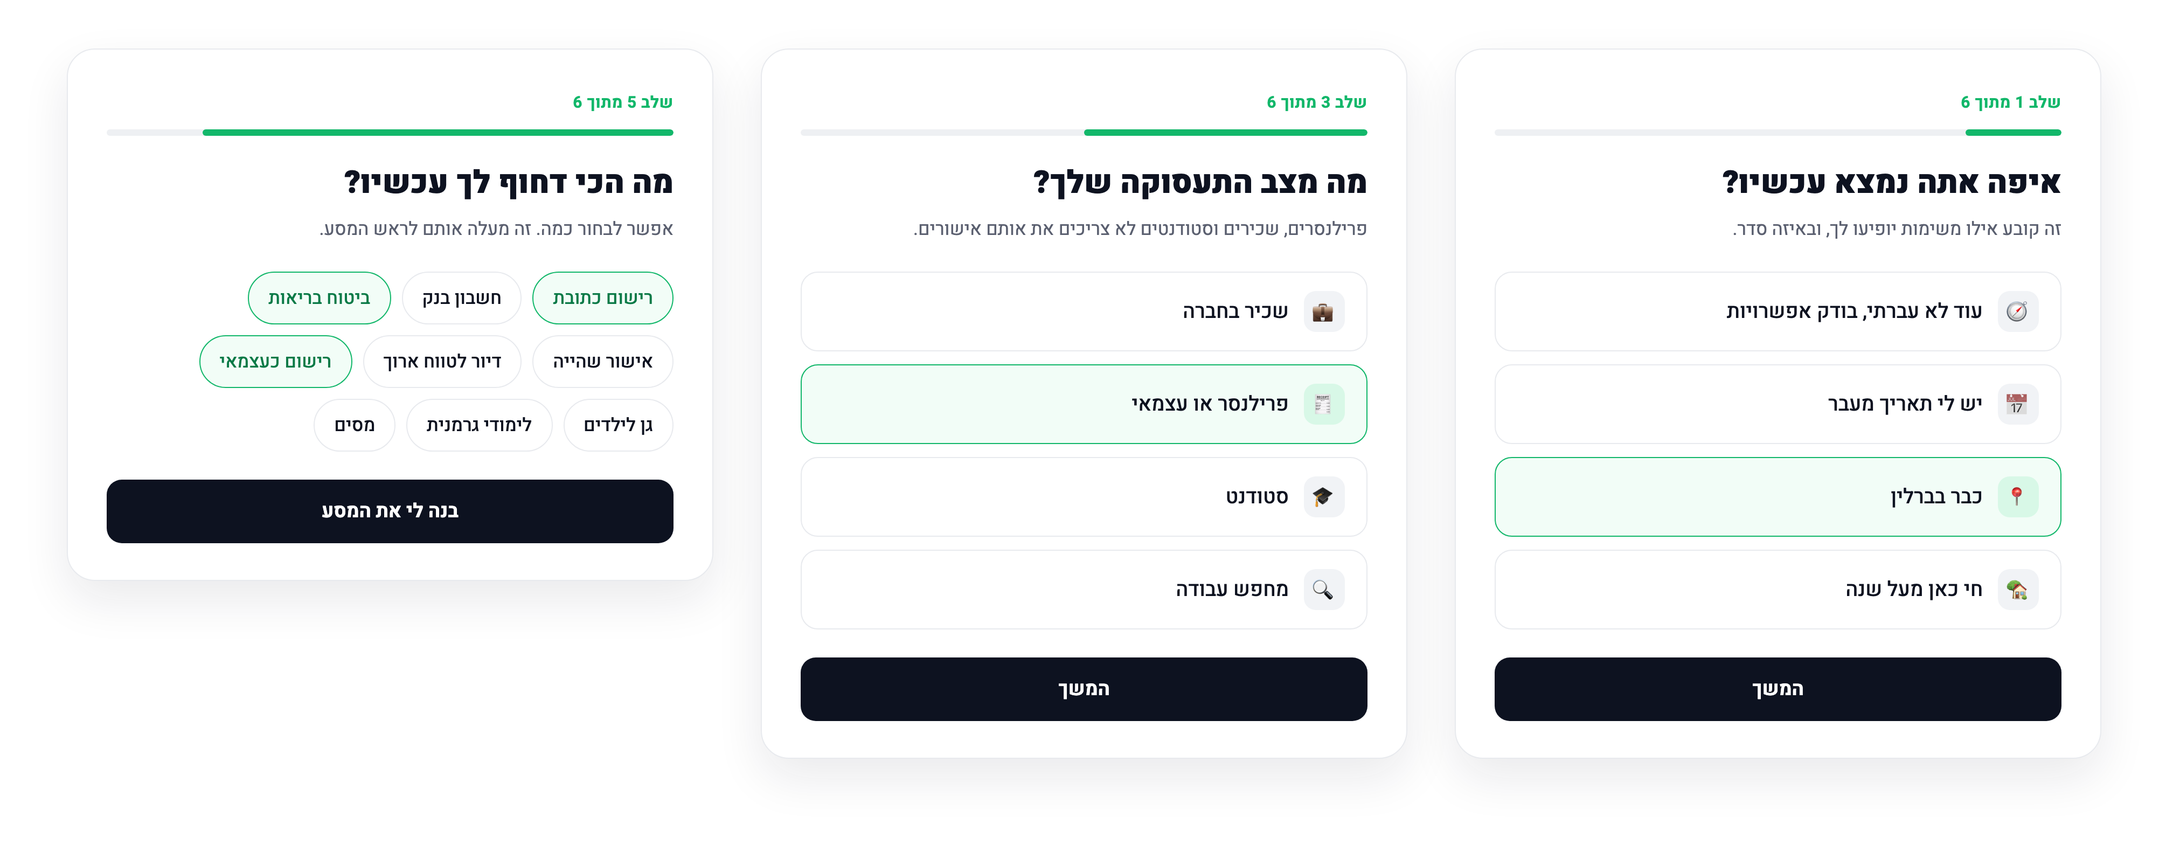
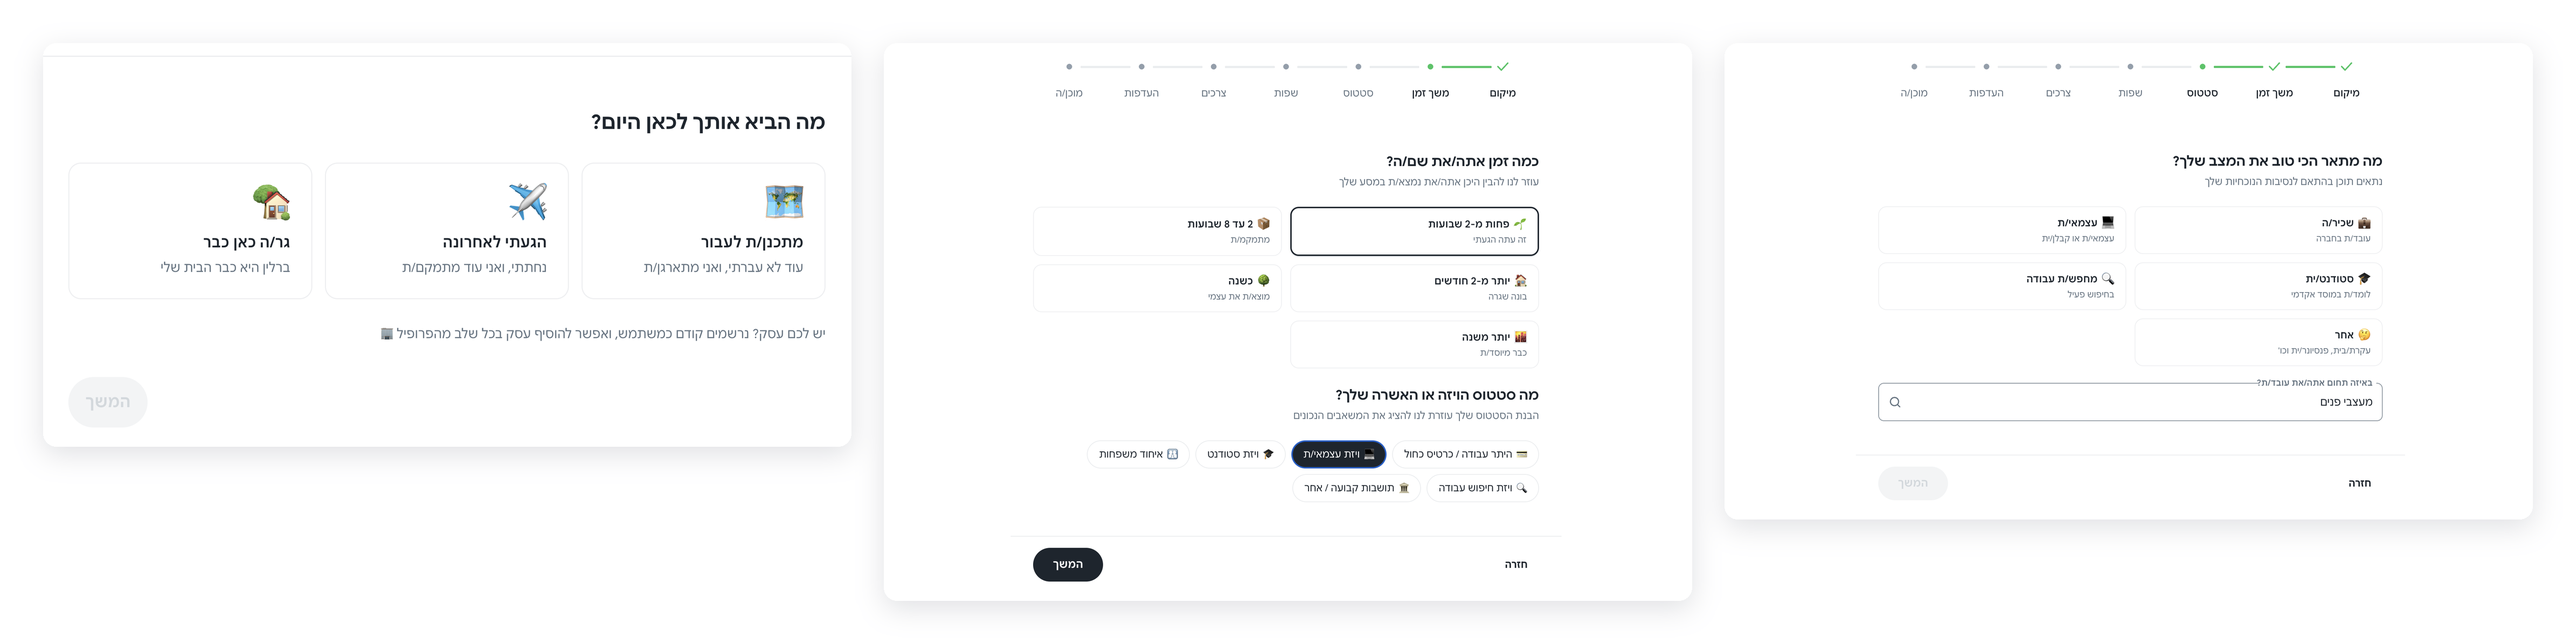
Replace the drawn onboarding with the real screens
Three real steps: what brought you here, how long you have been here plus
visa status, and what describes your situation. Together they show the
wizard branching, which is the claim the text above makes.

The seven-step progress bar is visible in two of the three, so the depth
of the flow is evident without saying it.

Cropping needed two passes. Bounding the ink alone kept the full browser
width, because the app bar and a hairline divider both span it. The crop
now drops the app bar and takes the centred column, which is where the
content actually lives.

Captions no longer say "redrawn", in both languages.

diff --git a/app/[locale]/projects/reloways-short/copy.ts b/app/[locale]/projects/reloways-short/copy.ts
@@ -100,7 +100,7 @@ const en: CaseCopy = {
         ],
         figure: 'Onboarding wizard, two or three real steps',
         figureAlt: 'Three onboarding steps: where are you now, what is your employment situation, and what is most urgent',
-        figureCaption: 'Three of the six onboarding steps, redrawn. What the wizard learns here decides which tasks appear and in what order.',
+        figureCaption: 'Three of the seven onboarding steps. What the wizard learns here decides which tasks appear, and in what order.',
       },
       {
         number: '02',
@@ -224,7 +224,7 @@ const he: CaseCopy = {
         ],
         figure: 'אונבורדינג, שניים שלושה מסכים אמיתיים',
         figureAlt: 'שלושה שלבי אונבורדינג: איפה אתה נמצא, מה מצב התעסוקה, ומה הכי דחוף',
-        figureCaption: 'שלושה מתוך ששת שלבי האונבורדינג, בשרטוט מחדש. מה שהמערכת לומדת כאן קובע אילו משימות יופיעו ובאיזה סדר.',
+        figureCaption: 'שלושה מתוך שבעת שלבי האונבורדינג. מה שהמערכת לומדת כאן קובע אילו משימות יופיעו, ובאיזה סדר.',
       },
       {
         number: '02',

diff --git a/app/[locale]/projects/reloways-short/page.tsx b/app/[locale]/projects/reloways-short/page.tsx
@@ -47,7 +47,7 @@ function SectionHeading({ number, title }: { number: string; title: string }) {
 
 /* One figure per build block, in order. */
 const BLOCK_FIGURES = [
-  { src: '/images/projects/reloways/reloways-onboarding.png', aspect: '4020/1568' },
+  { src: '/images/projects/reloways/reloways-onboarding.png', aspect: '4780/1195' },
   { src: '/images/projects/reloways/reloways-journey.png', aspect: '3840/2614' },
   { src: '/images/projects/reloways/reloways-next-step.png', aspect: '2080/1320' },
 ];
